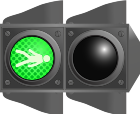
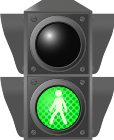
Traffic lights logic, cars collision logic and starting creating pedestrian lights

diff --git a/scripts/cars.py b/scripts/cars.py
@@ -9,12 +9,13 @@ from traffic_lights import TrafficLights
 class Car:
     """Κλάση Car για τη δημιουργία των αυτοκινήτων και τις λειτουργίες τους"""
     # Οι θέσεις όπου εμφανίζονται τα αυτοκίνητα όταν δημιουργούνται
-    cars_starting_positions = {"1": [(-40, 645), (-40, 570)], "2": [(870, 1030), (960, 1030)],
-                               "3": [(1882, 440), (1882, 510)]}
+    cars_starting_positions = {"1": [(-140, 645), (-140, 570)], "2": [(870, 1130), (960, 1130)],
+                               "3": [(1982, 440), (1982, 510)]}
     speed = 6
     speed_by_direction = {"1": (speed, 0), "2": (0, -speed), "3": (-speed, 0)}
     num_of_car_images = 2
     front_car_min_distance = 150
+    dist_to_light = (150, 220)
     car_image = "../images/cars/car_#.png"
     orig_img_ratio = 0.1
     # Μέγιστος αριθμός αυτοκινήτων που μπορούν να υπάρχουν ταυτόχρονα
@@ -30,6 +31,7 @@ class Car:
         self.lane = lane
         self.speed = Car.speed_by_direction[str(self.direction)]
         self.moving = True
+        self.leave_on_orange = False
         self.stopped = {"<class 'cars.Car'>": None, "<class 'traffic_lights.TrafficLights'>": None,
                         "<class 'pedestrians.Pedestrian'>": None}
         self.x = Car.cars_starting_positions[str(self.direction)][self.lane][0]
@@ -44,74 +46,96 @@ class Car:
     def front_car_collision(self):
         """Μέθοδος που ελέγχει την απόσταση από το προπορευόμενο όχημα και αν αυτή είναι μικρότερη
         από την οριζόμενη τιμή ακινητοποιείται"""
-        if self.moving:
-            # Εφόσον το αυτοκίνητο κινείται ελέγχει την απόσταση από το προπορευόμενο αυτοκίνητο
-            # και αν αυτή είναι κάτω από την οριζόμενη τιμή ακινητοποιείται
-            for car in Car.cars_dict[str(self.direction)][self.lane]:
-                if self != car and self.direction == car.direction and self.lane == car.lane:
-                    if self.direction == 1 and 0 < car.x - self.x < Car.front_car_min_distance:
-                        self.stop_car(car)
-                    elif self.direction == 3 and 0 < self.x - car.x < Car.front_car_min_distance:
-                        self.stop_car(car)
-                    elif self.direction == 2 and 0 < self.y - car.y < Car.front_car_min_distance:
-                        self.stop_car(car)
+        collision = False
+        for car in Car.cars_dict[str(self.direction)][self.lane]:
+            if self != car and self.direction == car.direction and self.lane == car.lane:
+                if ((self.direction == 1 and 0 < self.axis_distance(car) < Car.front_car_min_distance)
+                        or (self.direction == 3 and 0 < self.axis_distance(car) < Car.front_car_min_distance)
+                        or (self.direction == 2 and 0 < self.axis_distance(car) < Car.front_car_min_distance)):
+                    collision = True
+                    self.stopped[str(type(car))] = car
+        return collision
 
     def check_traffic_lights(self):
-        # TODO check the whole logic again
-        if self.moving:
-            if (TrafficLights.current_mode == "normal" and
-                    (TrafficLights.tr_lights_dict[str(self.direction)].phase == "red"
-                     or TrafficLights.tr_lights_dict[str(self.direction)].phase == "orange")):
-                self.stop_car(TrafficLights.tr_lights_dict[str(self.direction)])
-            elif (TrafficLights.current_mode == "night" and self.direction == 2 and
-                  self.find_distance(TrafficLights.tr_lights_dict[str(self.direction)]) < 150):
-                self.stop_car(TrafficLights.tr_lights_dict[str(self.direction)])
-        else:
-            if (TrafficLights.current_mode == "normal" and
-                    (TrafficLights.tr_lights_dict[str(self.direction)].phase == "green" or
-                     TrafficLights.tr_lights_dict[str(self.direction)].phase == "off")):
-                self.restart_movement(str(type(TrafficLights.tr_lights_dict[str(self.direction)])))
+        stop_to_light = False
+        tr_light = TrafficLights.tr_lights_dict[str(self.direction)]
+        if (TrafficLights.current_mode == "normal" and
+                Car.dist_to_light[0] < self.axis_distance(tr_light) < Car.dist_to_light[1] and
+                (tr_light.phase == "red" or tr_light.phase == "orange")):
+            stop_to_light = True
+            self.stopped[str(type(tr_light))] = tr_light
+        elif (TrafficLights.current_mode == "night" and self.direction == 2 and not self.leave_on_orange and
+              Car.dist_to_light[0] < self.axis_distance(tr_light) < Car.dist_to_light[1]):
+            stop_to_light = True
+            self.stopped[str(type(tr_light))] = tr_light
+        return stop_to_light
 
     def stop_car(self, entity):
         self.moving = False
         self.speed = (0, 0)
         self.stopped[str(type(entity))] = entity
-        self.root.after(30, self.move_car)
 
     def move_car(self):
         """Μέθοδος όπου διαχειρίζεται την κίνηση του κάθε αυτοκινήτου"""
-        self.front_car_collision()
-        self.check_traffic_lights()
         if self.moving:
-            # Εφόσον κινείται το αυτοκίνητο, αν είναι εντός των ορίων του καμβά συνεχίζει την κίνησή του
-            # αλλιώς διαγράφεται
-            if -100 < self.x < 1932 and -100 < self.y < 1180:
+            if self.front_car_collision() or self.check_traffic_lights():
+                for i in self.stopped.values():
+                    if i:
+                        self.stop_car(i)
+            elif -200 < self.x < 2000 and -200 < self.y < 1230:
                 self.canvas.move(self.car, self.speed[0], self.speed[1])
                 self.x += self.speed[0]
                 self.y += self.speed[1]
-                self.root.after(30, self.move_car)
             else:
                 self.delete_car()
-        elif self.stopped["<class 'cars.Car'>"]:
-            # Εφόσον είναι σταματημένο το αυτοκίνητο, αν μεγαλώσει η απόσταση από το αυτοκίνητο για το
-            # οποίο σταμάτησε ξεκινάει πάλι να κινείται
-            if self.find_distance(self.stopped[str(type(self))]) > Car.front_car_min_distance + 50:
-                self.restart_movement(str(type(self)))
+        else:
+            for x, y in self.stopped.items():
+                if x == "<class 'cars.Car'>" and y:
+                    if self.find_distance(self.stopped[str(type(self))]) > Car.front_car_min_distance + 50:
+                        self.restart_movement(str(type(y)))
+                if x == "<class 'traffic_lights.TrafficLights'>" and y:
+                    if TrafficLights.current_mode == "normal" and (y.phase == "green" or y.phase == "off"):
+                        self.restart_movement(str(type(y)))
+                    elif TrafficLights.current_mode == "night" and self.direction != 2:
+                        self.restart_movement(str(type(y)))
+                    elif TrafficLights.current_mode == "night":
+                        leave = True
+                        for key, car_list_1 in Car.cars_dict.items():
+                            if int(key) % 2 != self.direction % 2:
+                                for car_list_2 in car_list_1:
+                                    for i in car_list_2:
+                                        if self.find_distance(i) < 400+(abs(i.y-self.y)/2):
+                                            leave = False
+                        self.leave_on_orange = leave
+                        self.restart_movement(str(type(y)))
+        self.root.after(30, self.move_car)
 
     def restart_movement(self, entity_type):
         self.moving = True
         self.speed = Car.speed_by_direction[str(self.direction)]
         self.stopped[entity_type] = None
-        self.root.after(30, self.move_car)
 
     def delete_car(self):
         """Μέθοδος η οποία διαγράφει το αυτοκίνητο εφόσον εξέλθει των ορίων του καμβά"""
-        self.canvas.delete(self.car)
+        self.moving = False
         Car.total_car_list.remove(self)
         Car.cars_dict[str(self.direction)][self.lane].remove(self)
+        self.canvas.delete(self.car)
 
     def find_distance(self, entity):
         return math.sqrt(abs(self.x - entity.x)**2 + abs(self.y - entity.y)**2)
+
+    def axis_distance(self, entity):
+        dist = 0
+        if self.direction == 1:
+            dist = entity.x - self.x
+        elif self.direction == 2:
+            dist = self.y - entity.y
+        elif self.direction == 3:
+            dist = self.x - entity.x
+        elif self.direction == 4:
+            dist = entity.y - self.y
+        return dist
 
     @classmethod
     def car_creator(cls, images, canvas, root):

diff --git a/scripts/traffic_lights.py b/scripts/traffic_lights.py
@@ -3,10 +3,10 @@ import time
 
 
 class TrafficLights:
-    lights_positions = {"1": (780, 600), "2": (910, 710), "3": (1030, 470)}
+    lights_positions = {"1": (830, 600), "2": (910, 670), "3": (1010, 470)}
     light_phases = ["off", "green", "orange", "red"]
     light_img_file = "../images/traffic_lights/car_#.png"
-    orig_img_ratio = 0.7
+    orig_img_ratio = 0.8
     tr_lights_dict = {}
     tr_lights_main_sec = {"main": [], "secondary": []}
     current_mode = "normal"
@@ -43,6 +43,25 @@ class TrafficLights:
         self.root.after(100, self.change)
 
     @classmethod
+    def initialise(cls, mode):
+        TrafficLights.time_on = time.time()
+        TrafficLights.current_mode = mode
+        if mode == "night":
+            for val in TrafficLights.tr_lights_main_sec["main"]:
+                if val.command != "off":
+                    val.command = "off"
+            for val in TrafficLights.tr_lights_main_sec["secondary"]:
+                if val.command != "orange":
+                    val.command = "orange"
+                else:
+                    val.command = "off"
+        elif mode == "normal":
+            for val in TrafficLights.tr_lights_main_sec["main"]:
+                val.command = "green"
+            for val in TrafficLights.tr_lights_main_sec["secondary"]:
+                val.command = "red"
+
+    @classmethod
     def operation(cls):
         """Μέθοδος η οποία διαχειρίζεται τη λειτουργία των φωτεινών σηματοδοτών"""
         if TrafficLights.current_mode == "night":
@@ -50,9 +69,9 @@ class TrafficLights:
                 if val.command != "off":
                     val.command = "off"
             for val in TrafficLights.tr_lights_main_sec["secondary"]:
-                if val.command == "off":
+                if val.command != "orange":
                     val.command = "orange"
-                elif val.command == "orange":
+                else:
                     val.command = "off"
         elif TrafficLights.current_mode == "normal":
             if TrafficLights.tr_lights_main_sec["main"][0].phase == "green" and time.time() - TrafficLights.time_on > 30:
@@ -107,7 +126,28 @@ class TrafficLights:
                 tr_image = Image.open(TrafficLights.light_img_file.replace("#", i))
                 resized_image = tr_image.resize((int(tr_image.width*TrafficLights.orig_img_ratio),
                                                  int(tr_image.height*TrafficLights.orig_img_ratio)))
-                rotated_image = resized_image.rotate(90 * int(x), expand=True)
+                rotated_image = resized_image.rotate(90 * (int(x)-2), expand=True)
                 dir_images[i] = ImageTk.PhotoImage(rotated_image)
             images[x] = dir_images
         return images
+
+    class PedestrianLights:
+        lights_positions = {"1": ((830, 600), ()), "2": ((910, 670), ()), "3": ((1010, 470), ()), "4": ((), ())}
+        light_phases = ["off", "green", "red"]
+        light_img_file = "../images/traffic_lights/pedestrian_#.png"
+        orig_img_ratio = 0.8
+        tr_lights_dict = {}
+
+        def __init__(self, images, direction, phase, canvas, window):
+            self.images = images
+            self.direction = direction
+            self.phase = phase
+            self.x1 = TrafficLights.lights_positions[str(self.direction)][0][0]
+            self.y1 = TrafficLights.lights_positions[str(self.direction)][0][1]
+            self.x2 = TrafficLights.lights_positions[str(self.direction)][1][0]
+            self.y2 = TrafficLights.lights_positions[str(self.direction)][1][1]
+            self.root = window
+            self.canvas = canvas
+            self.ped_light = self.canvas.create_image(self.x1, self.y1, image=self.images[self.phase])
+            self.ped_light = self.canvas.create_image(self.x2, self.y2, image=self.images[self.phase])
+            TrafficLights.tr_lights_dict[str(self.direction)] = self

diff --git a/scripts/buttons.py b/scripts/buttons.py
@@ -20,7 +20,7 @@ class OpButton:
         self.current_image = self.images[self.images.index(self.current_image)-1]
         self.button.config(image=self.current_image)
         self.operation = OpButton.modes[OpButton.modes.index(self.operation)-1]
-        TrafficLights.current_mode = self.operation
+        TrafficLights.initialise(self.operation)
 
 
 class PauseButton:
